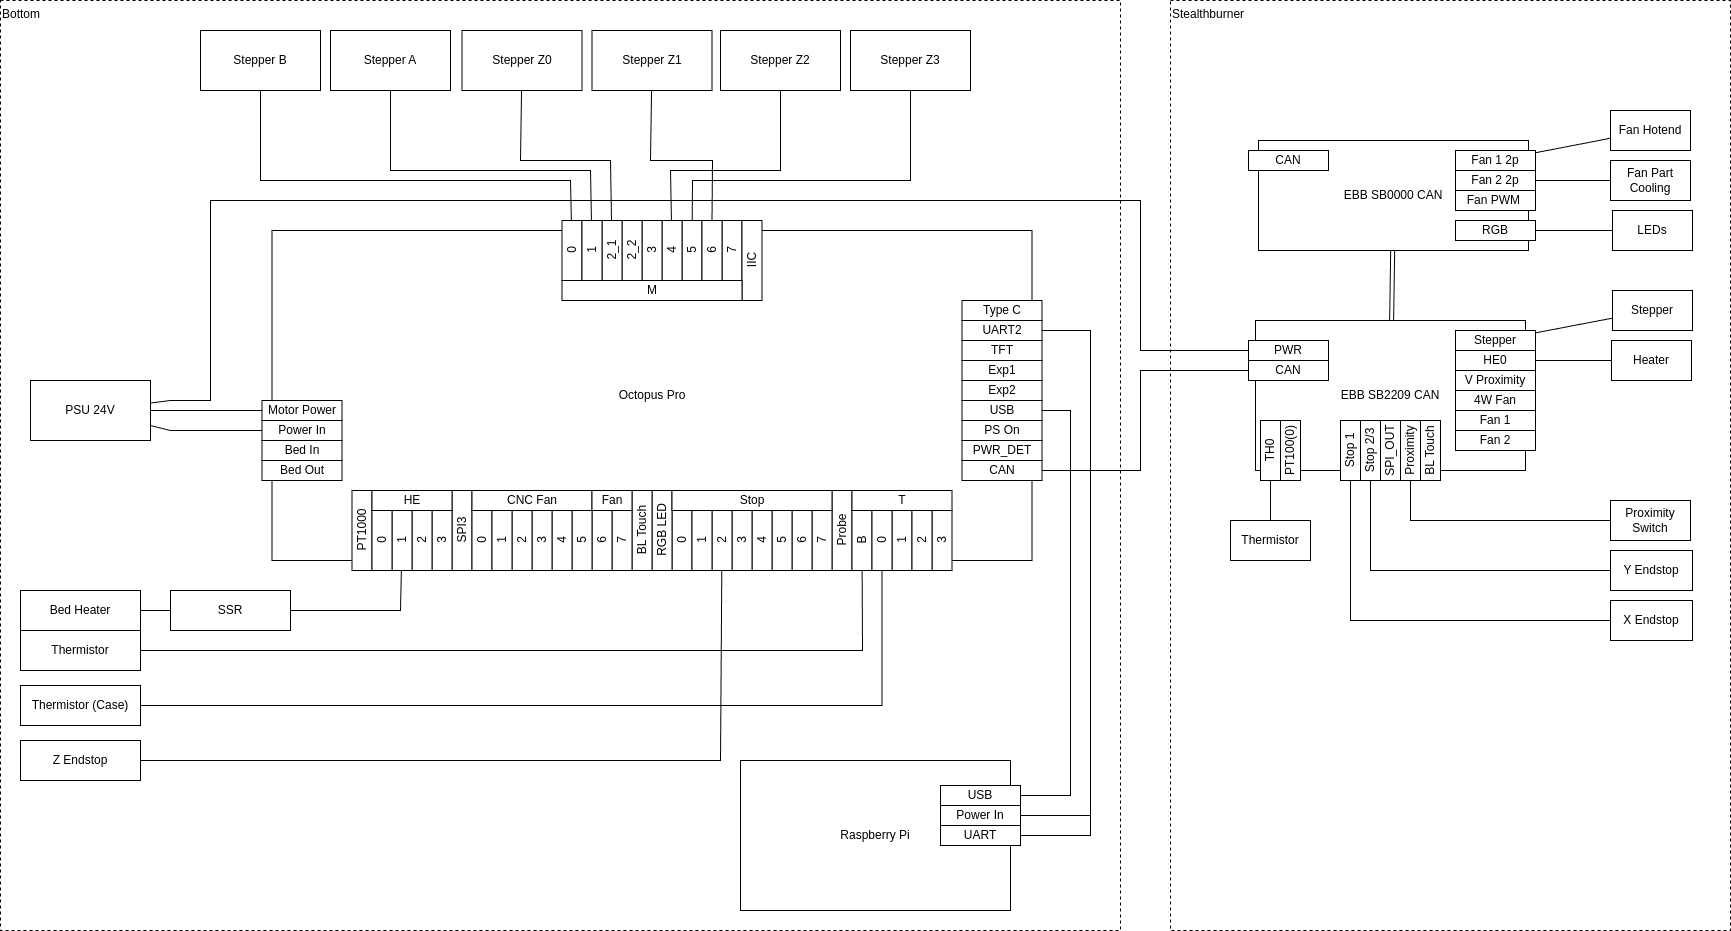
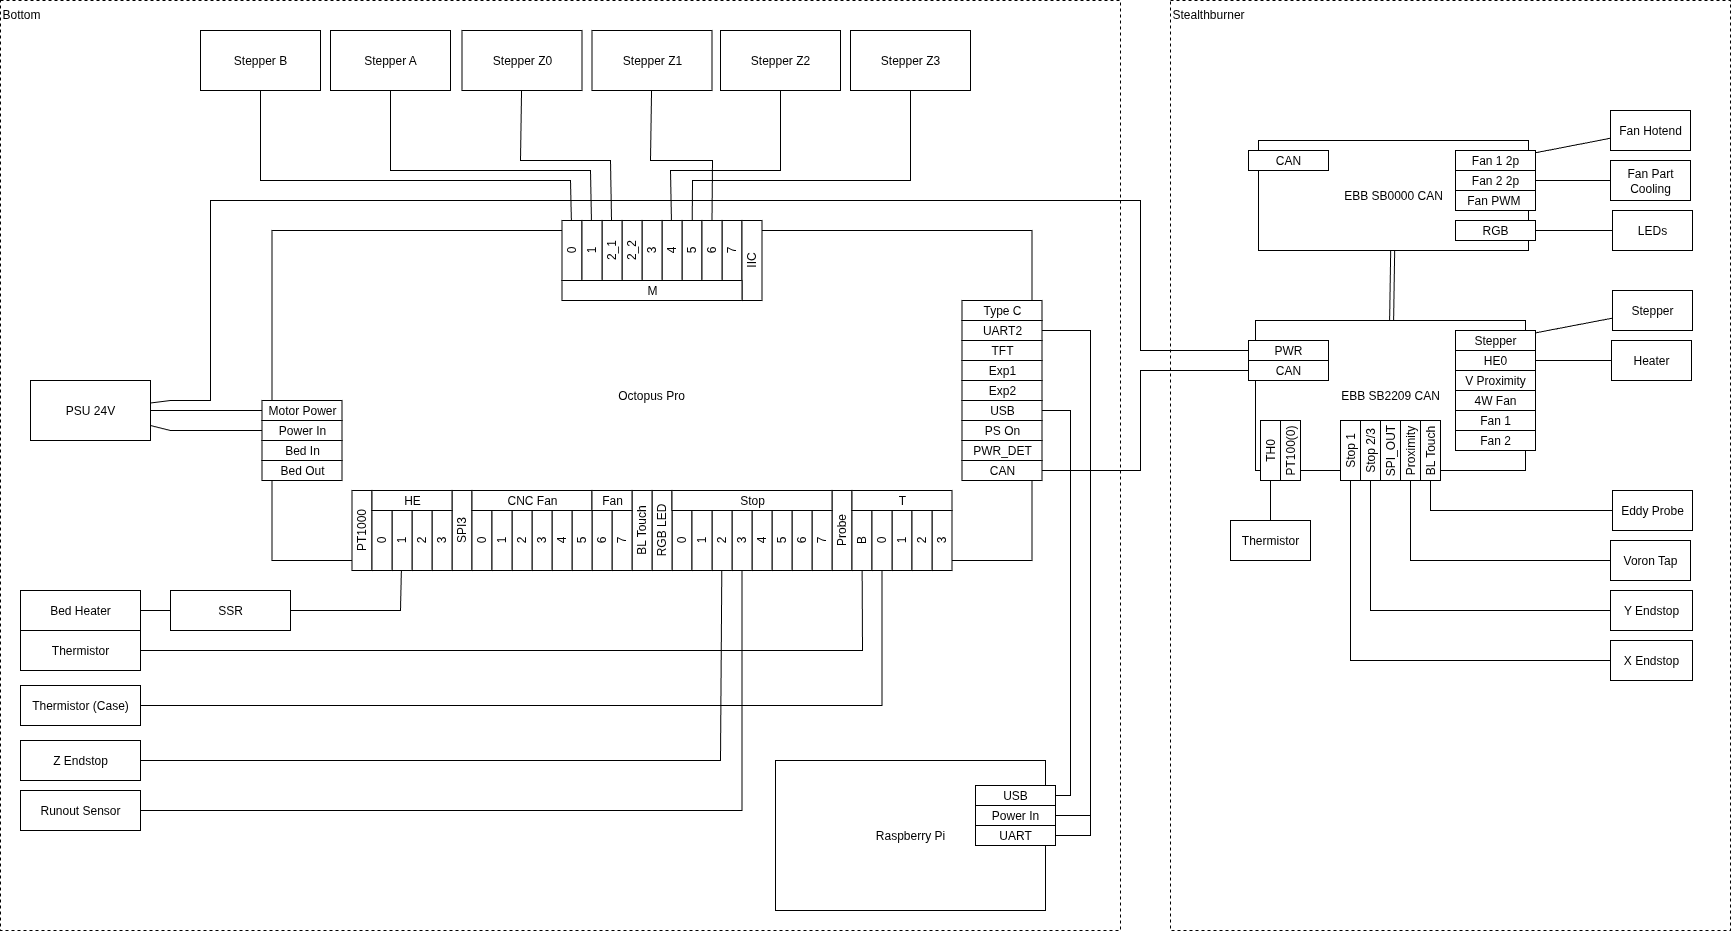
Update of wiring, tap and eddy probe

diff --git a/README.md b/README.md
@@ -5,10 +5,21 @@ Stuff, [Build-Log](BuildLog.md) and Config for my Voron 2.4
 ## Components
 
 - Raspberry Pi 3b
-- Octopus Pro v1.1
-- EBB SB2240 CAN
-- Shelly Plus 1PM
-- E3D V6 Hotend
+- Mainboard: [Octopus Pro v1.1](https://biqu.equipment/products/bigtreetech-octopus-pro-v1-0-chip-f446)
+- Hotend: [Phaetus Dragon HF](https://www.phaetus.com/products/dragon-hotend-hf)
+
+## Modifications to the Default Voron
+
+- Additional Thermistor to measure the case temperature
+- Stealthburner CAN: [EBB SB2240 CAN](https://biqu.equipment/products/bigtreetech-ebb-sb2209-can-v1-0?variant=40214282731618)
+- Shelly Plus 1PM Switch between Power Switch and PSU for Auto-Shutdown via Home Assistant
+- [RocknRoll](https://github.com/VoronDesign/VoronUsers/tree/main/printer_mods/RockNLol/RockNRoll)
+- [Voron Tap CNC](https://www.chaoticlab.com/products/cnc-voron-tap?variant=40494842675298)
+- [Triangle Labs Filament Sensor](https://www.trianglelab.net/products/sensors?VariantsId=10607)
+- [BTT Eddy Probe](https://biqu.equipment/products/bigtreetech-eddy)
+- [Nozzle Brush mit Bucket](https://www.printables.com/model/201999-nozzle-scrubber-with-a-little-bucket-for-voron-24?lang=de)
+- [RocknRoll](https://github.com/VoronDesign/VoronUsers/tree/main/printer_mods/RockNLol/RockNRoll)
+- [Panel Latches](https://github.com/richardjm/voron-parts/tree/main/voron-2.4/FilamentLatch)
 
 ## Wiring
 
@@ -21,23 +32,13 @@ Stuff, [Build-Log](BuildLog.md) and Config for my Voron 2.4
 - The driver for Z1 had problems, so it is connected do a different driver
 - The Raspberry is connected with UART and USB to the Octopus, but only USB is used
 
-## Modifications
+## TODO
 
-- Additional Thermistor to measure the case temperature
-- CAN-Board on the Stealthburner
-- Shelly Switch between Power Switch and PSU for Auto-Shutdown via Home Assistant
-- [RocknRoll](https://github.com/VoronDesign/VoronUsers/tree/main/printer_mods/RockNLol/RockNRoll)
-
-TODO:
-
-- Filament Sensor (Trianglelab Filament Runout Sensor)
-- Klicky Probe
-- ERCF
+- SW control of the exhaust fan
+- SW control of the case fans
 - Telegram bot
-- Camera
+- Another Camera
 - LED lighting
-- Nozzle Brush
 - Nevermore Filter
 - Clicky Clacky Door
-- Kinematic Mountr
-- Panel Latches
+- Kinematic Mounts

diff --git a/BuildLog.md b/BuildLog.md
@@ -1,5 +1,7 @@
 
-# The Frame
+# Build Log
+
+## The Frame
 
 Mostly according to the documentation. Instead of Misumi profiles I used ITEM profiles and ITEM standard fasteners. Mostly works without problems, but some parts need minor modifications.
 
@@ -8,7 +10,7 @@ All screws are secured with Loctite Medium.
 <img src="./imgs/frame1.jpg" width="25%" height="25%">
 <img src="./imgs/frame_01.jpg" width="25%" height="25%">
 
-# The Feet
+## The Feet
 
 The four feet in the corners with steppers. All parts are printed with black or red ASA.
 
@@ -16,7 +18,7 @@ The four feet in the corners with steppers. All parts are printed with black or 
 <img src="./imgs/fuesse_01.jpg" width="25%" height="25%">
 <img src="./imgs/fuesse_02.jpg" width="25%" height="25%">
 
-# Controllers
+## Controllers
 
 View from the bottom with the wiring and controller boards.
 The Octopus Pro can power the Raspberry Pi directly, no need for an additional 5V PSU.
@@ -28,4 +30,23 @@ Final (maybe) wiring. Including front display, the shelly for auto-off, fans and
 
 <img src="./imgs/elektro_02.jpg" width="25%" height="25%">
 
-# Stealthburner
+## Stealthburner
+
+The Stealtburner with the 2 PCBs of the CAN board. The main PCB with controller and stepper driver in the extruder, another PCB with fan connectors in the front. The eddy probe will be connected to the front too.
+
+<img src="./imgs/SB_Front.png" width="25%" height="25%">
+<img src="./imgs/SB_Extruder.jpg" width="25%" height="25%">
+
+
+### Voron TAP
+
+The voron tap CNC, replacing the printed carriage.
+
+<img src="./imgs/VoronTap.jpg" width="25%" height="25%">
+
+### Eddy Probe
+
+Normally the eddy probe replaces the inductive probe in the carriage, but with the voron tap there is no room for that anymore. So it is placed at the side of the hotend. 
+
+<img src="./imgs/SB_Hotend.png" width="25%" height="25%">
+
